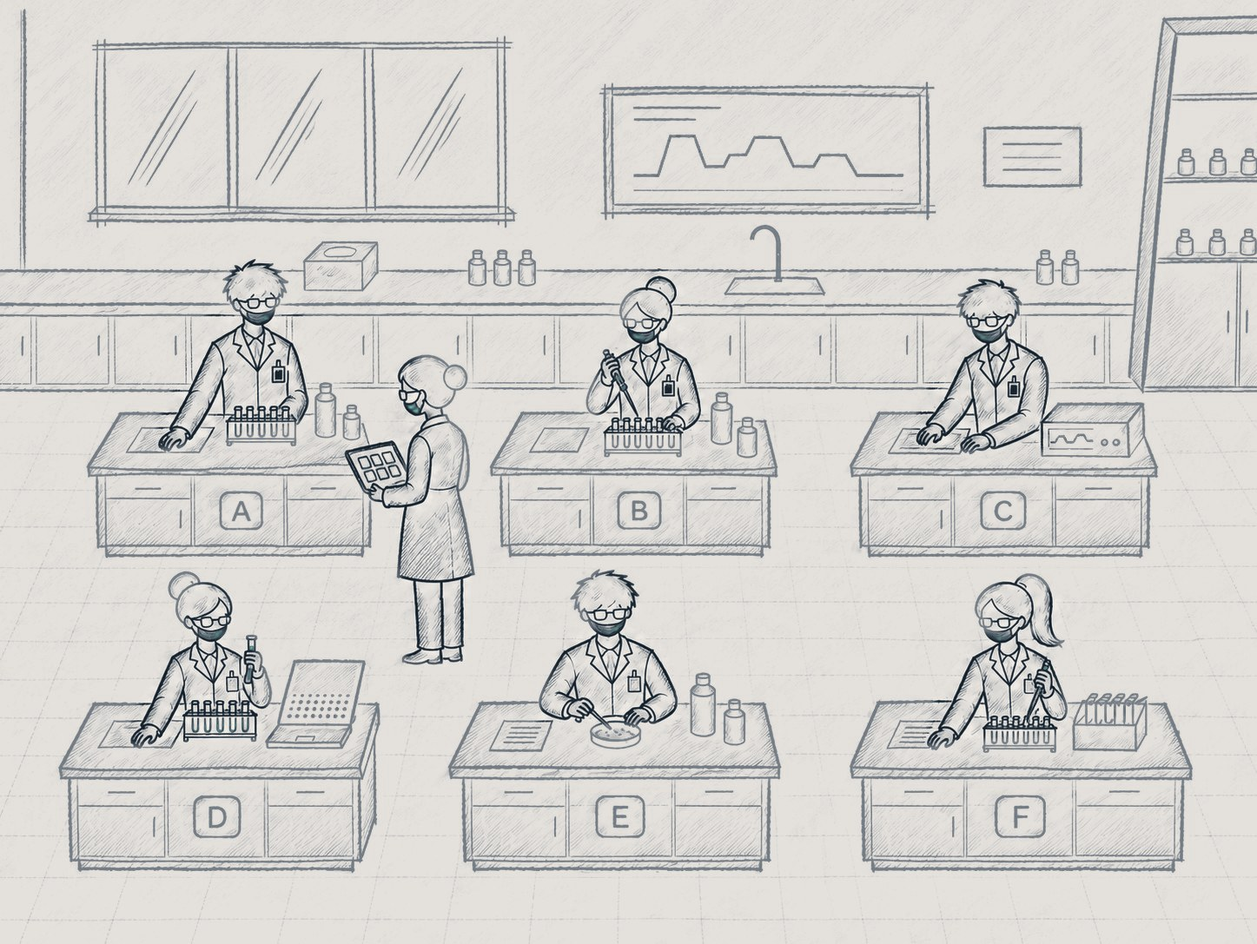
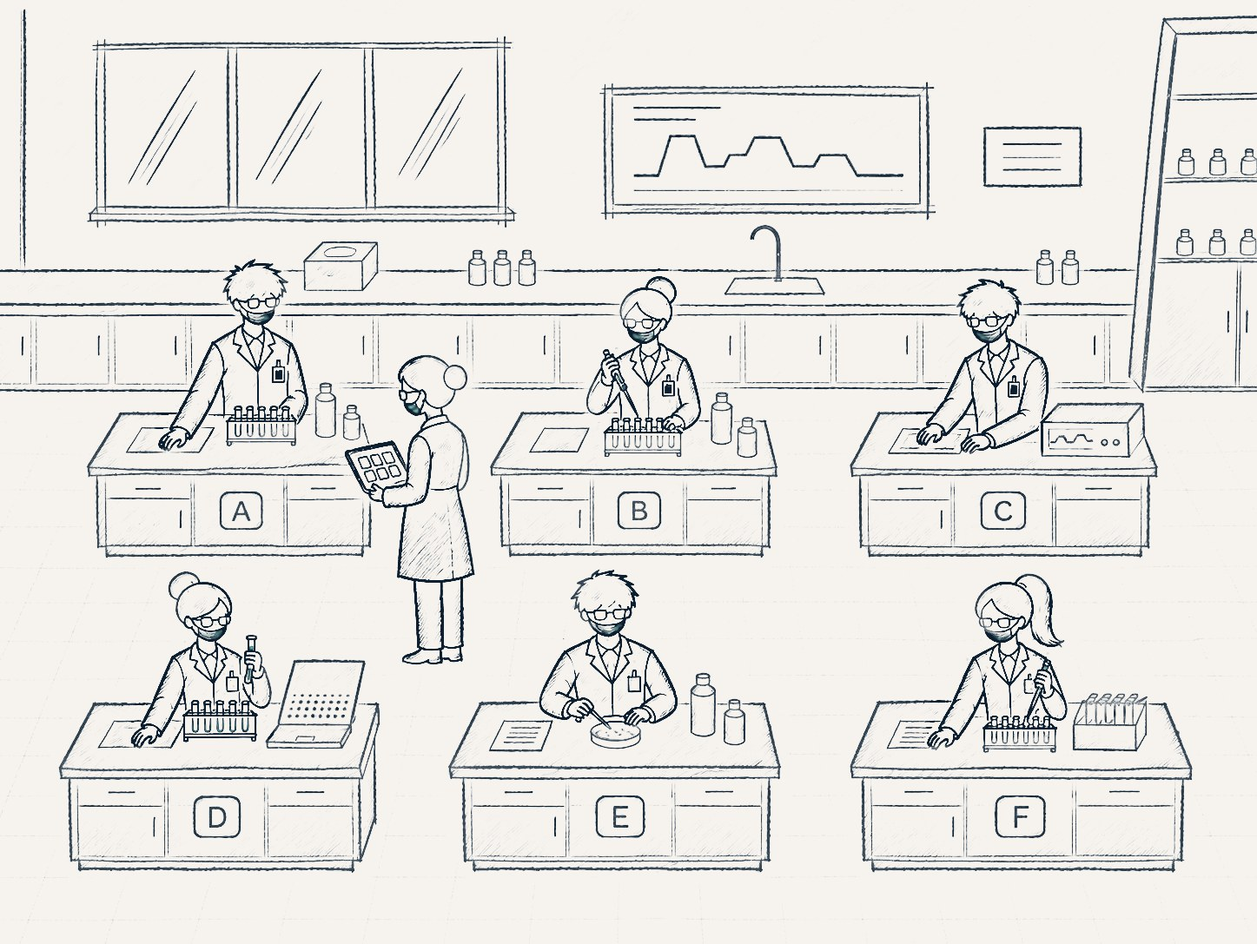
Lab illustrations: crisper people (navy ink), lighter room lines, no haze
Claude-Session: https://claude.ai/code/session_01QyLKD32KRehfmpAtUqrHvu

diff --git a/index.html b/index.html
@@ -14,7 +14,7 @@
 <link rel="stylesheet" href="theme.css?v=20261128-t8">
 </head>
 <body>
-<div class="view" data-view="zh-project" data-lang="zh" hidden><div class="site"><a class="skip-link" data-anchor="zh-project--main" href="#zh-project">跳转到内容</a><div class="lt"><header class="site-header"><div class="site-header-inner"><a class="site-logo" href="#zh-project"><svg aria-hidden="true" class="jw-mark" focusable="false" viewbox="-2 -2 92 104"><path d="M4 35V26A22 22 0 0 1 26 4H62A22 22 0 0 1 84 26V74A22 22 0 0 1 62 96H26A22 22 0 0 1 4 74V63" fill="none" stroke="currentColor" stroke-linecap="round" stroke-width="7.5"></path><circle cx="3.4" cy="49" fill="currentColor" r="5"></circle></svg><span class="site-logo-text"><b>见微科技</b><span>LabMate AI</span></span></a><nav aria-label="网站导航" class="site-nav" id="zh-project--site-nav"><a aria-current="page" href="#zh-project">项目介绍</a><a href="#zh-team">团队</a><a href="hackathon/">News</a><a href="product/demo/">Demo</a></nav><div class="site-actions"><button aria-controls="zh-project--site-nav" aria-expanded="false" aria-label="打开菜单" class="site-menu"><span aria-hidden="true" class="site-burger"><i></i><i></i></span></button></div></div></header><main id="zh-project--main"><div class="site-page"><div class="x-hero-track" data-hero-track="true"><section class="x-hero"><div aria-hidden="true" class="x-hero-light"></div><div aria-hidden="true" class="x-pov x-labpov"><div class="x-labpov-in"><div class="lb ls-hero"><img class="lb-img" src="bp/lab2-base.jpg?v=20261128-light" width="1446" height="910" alt="实验室线稿插画：六张实验台，老师站在 A 台旁" decoding="async"/><img class="lb-img lb-frame" data-f="warn" src="bp/lab2-warn.jpg?v=20261128-light" width="1446" height="910" alt="" aria-hidden="true" decoding="async"/><img class="lb-img lb-frame" data-f="detail" src="bp/lab2-detail.zh.jpg?v=20261128-light" width="1446" height="910" alt="" aria-hidden="true" decoding="async"/><img class="lb-img lb-frame" data-f="teacher" src="bp/lab2-teacher.zh.jpg?v=20261128-light" width="1446" height="910" alt="" aria-hidden="true" decoding="async"/><img class="lb-img lb-frame" data-f="after" src="bp/lab2-after.zh.jpg?v=20261128-light" width="1446" height="910" alt="" aria-hidden="true" decoding="async"/><span class="lb-dim lb-dim-a" aria-hidden="true"></span><span class="lb-dim lb-dim-b" aria-hidden="true"></span><span class="lb-ring" aria-hidden="true" style="left:39.07330567081605%;top:20.0%;width:24.20470262793914%;height:38.24175824175824%"></span><svg class="lb-glasses" viewBox="0 0 80 26" aria-hidden="true" style="left:49.93084370677732%;top:24.285714285714285%;width:3.7344398340248963%"><path d="M2 6h76"></path><rect x="6" y="5" width="30" height="17" rx="5"></rect><rect x="44" y="5" width="30" height="17" rx="5"></rect><circle cx="70" cy="7.5" r="1.6" class="lb-cam"></circle></svg><span class="lb-chip" data-b="A" aria-hidden="true" style="left:21.23098201936376%;top:50.76923076923077%;--v:0.6666666666666666"><i class="lb-dot"></i>第 6/9 步<i class="lb-bar"></i></span><span class="lb-chip" data-b="B" aria-hidden="true" style="left:53.665283540802214%;top:50.76923076923077%;--v:0.1111111111111111"><i class="lb-dot"></i>第 1/9 步<i class="lb-bar"></i></span><span class="lb-chip" data-b="C" aria-hidden="true" style="left:84.37067773167358%;top:50.76923076923077%;--v:0.1111111111111111"><i class="lb-dot"></i>第 1/9 步<i class="lb-bar"></i></span><span class="lb-chip" data-b="D" aria-hidden="true" style="left:19.502074688796682%;top:90.54945054945055%;--v:0.5555555555555556"><i class="lb-dot"></i>第 5/9 步<i class="lb-bar"></i></span><span class="lb-chip" data-b="E" aria-hidden="true" style="left:51.65975103734441%;top:90.54945054945055%;--v:0.3333333333333333"><i class="lb-dot"></i>第 3/9 步<i class="lb-bar"></i></span><span class="lb-chip" data-b="F" aria-hidden="true" style="left:83.81742738589212%;top:90.54945054945055%;--v:0.7777777777777778"><i class="lb-dot"></i>第 7/9 步<i class="lb-bar"></i></span><span class="lb-tag lb-warn" data-t="warn" style="left:51.31396957123098%;top:14.505494505494507%">B 台出错了，老师没看到</span><span class="lb-tag lb-warn" data-t="detail" style="left:65.6984785615491%;top:61.75824175824176%">移液量设错，试剂也拿错了</span><span class="lb-tag lb-ok" data-t="dev" style="left:51.31396957123098%;top:14.505494505494507%">回到课前，先用平板准备</span><span class="lb-tag lb-ok" data-t="after" style="left:69.84785615491009%;top:5.714285714285714%">B 台已纠正；C 台的新提醒，老师也第一时间看到</span></div><p class="x-labpov-cap">一节 PCR 实验课，一位老师，六张台。</p></div></div><div class="x-hero-stage"><div class="g3d g3d-hero" data-glasses3d="hero"><svg aria-label="LabMate AR 眼镜示意图：镜片中叠加实验步骤提示" class="glasses-art has-view" role="img" viewbox="0 0 1200 430"><defs><lineargradient id="zh-project--hero-frame" x1="0" x2="0" y1="0" y2="1"><stop offset="0" stop-color="#5a6573"></stop><stop offset="0.2" stop-color="#2a3038"></stop><stop offset="1" stop-color="#0e1116"></stop></lineargradient><lineargradient id="zh-project--hero-glass" x1="0" x2="1" y1="0" y2="1"><stop offset="0" stop-color="#ffffff" stop-opacity="0.22"></stop><stop offset="0.35" stop-color="#ffffff" stop-opacity="0.04"></stop><stop offset="1" stop-color="#93b4d8" stop-opacity="0.08"></stop></lineargradient><lineargradient id="zh-project--hero-tint" x1="0" x2="0" y1="0" y2="1"><stop offset="0" stop-color="#0e2a33" stop-opacity="0.28"></stop><stop offset="1" stop-color="#0e2a33" stop-opacity="0.08"></stop></lineargradient><lineargradient id="zh-project--hero-rim" x1="0" x2="0" y1="0" y2="1"><stop offset="0" stop-color="#c9d6e3" stop-opacity="0.75"></stop><stop offset="0.3" stop-color="#93b4d8" stop-opacity="0.25"></stop><stop offset="1" stop-color="#ffffff" stop-opacity="0.05"></stop></lineargradient><filter height="140%" id="zh-project--hero-blur" width="140%" x="-20%" y="-20%"><fegaussianblur stddeviation="7"></fegaussianblur></filter><radialgradient cx="0.5" cy="0.5" id="zh-project--hero-fade" r="0.55"><stop offset="0.55" stop-color="#fff"></stop><stop offset="1" stop-color="#000"></stop></radialgradient><mask height="830" id="zh-project--hero-world" maskunits="userSpaceOnUse" width="1600" x="-200" y="-200"><rect fill="url(#zh-project--hero-fade)" height="830" width="1600" x="-200" y="-200"></rect></mask><lineargradient id="zh-project--hero-temple" x1="0" x2="0" y1="1" y2="0"><stop offset="0" stop-color="#2a323c"></stop><stop offset="1" stop-color="#2a323c" stop-opacity="0"></stop></lineargradient><clippath id="zh-project--hero-lenses"><rect height="274" rx="96" width="476" x="82" y="74"></rect><rect height="274" rx="96" width="476" x="642" y="74"></rect></clippath></defs><g class="ga-world" mask="url(#zh-project--hero-world)"><image height="1800" href="bp/glasses-guidance.jpg?v=20261126010235" opacity="0.42" width="1800" x="-42" y="-827"/></g><path d="M48 114 L80 108 L300 -40 L286 -42 Z" fill="url(#zh-project--hero-temple)"></path><path d="M1152 114 L1120 108 L900 -40 L914 -42 Z" fill="url(#zh-project--hero-temple)"></path><rect fill="url(#zh-project--hero-frame)" height="30" rx="9" width="44" x="40" y="104"></rect><rect fill="url(#zh-project--hero-frame)" height="30" rx="9" width="44" x="1116" y="104"></rect><circle cx="1142" cy="119" fill="#05070a" r="9" stroke="#2c3644" stroke-width="3"></circle><circle cx="1142" cy="119" fill="#123a4c" r="4"></circle><circle class="ga-led" cx="1157" cy="110" fill="#3ddc97" r="2.2"></circle><g fill="url(#zh-project--hero-frame)"><rect height="298" rx="108" width="502" x="70" y="62"></rect><rect height="298" rx="108" width="502" x="628" y="62"></rect><path d="M566 118 C584 92 616 92 634 118 L634 138 C616 116 584 116 566 138 Z"></path></g><g fill="none" stroke-linecap="round"><rect height="298" rx="108" stroke="url(#zh-project--hero-rim)" stroke-width="2" width="502" x="70" y="62"></rect><rect height="298" rx="108" stroke="url(#zh-project--hero-rim)" stroke-width="2" width="502" x="628" y="62"></rect></g><g fill="#2a3340"><ellipse cx="548" cy="214" rx="9" ry="20"></ellipse><ellipse cx="652" cy="214" rx="9" ry="20"></ellipse></g><g clip-path="url(#zh-project--hero-lenses)"><rect fill="#0a1119" height="430" width="1200" x="0" y="0"></rect><image class="ga-view" height="1800" href="bp/glasses-guidance.jpg?v=20261126010235" preserveaspectratio="xMinYMin slice" width="1800" x="-42" y="-827"/><rect fill="url(#zh-project--hero-tint)" height="430" width="1200" x="0" y="0"></rect><rect class="ga-scan" height="3" width="1200" x="0" y="74"></rect><rect fill="url(#zh-project--hero-glass)" height="430" width="1200" x="0" y="0"></rect><path d="M150 74 L250 74 L120 348 L82 348 L82 250 Z" fill="#ffffff" opacity="0.05"></path><path d="M710 74 L790 74 L660 348 L642 348 L642 300 Z" fill="#ffffff" opacity="0.05"></path></g><g fill="none" stroke="#93b4d8" stroke-opacity="0.35" stroke-width="1.5"><rect height="274" rx="96" width="476" x="82" y="74"></rect><rect height="274" rx="96" width="476" x="642" y="74"></rect></g><g class="ga-hud"><g class="ga-chip c1"><rect height="36" rx="9" width="250" x="122" y="100"></rect><text x="138" y="124">1/9 · 加水 20 µL</text></g><g class="ga-list c2"><path d="M138 176 V 302"></path><g class="on"><circle cx="138" cy="168" r="6"></circle><text x="156" y="174">调量</text></g><g class=""><circle cx="138" cy="202" r="6"></circle><text x="156" y="208">装枪头</text></g><g class=""><circle cx="138" cy="236" r="6"></circle><text x="156" y="242">吸液</text></g><g class=""><circle cx="138" cy="270" r="6"></circle><text x="156" y="276">排液</text></g><g class=""><circle cx="138" cy="304" r="6"></circle><text x="156" y="310">退枪头</text></g></g><g class="ga-box c3"><path d="M852 122 h-16 v22 M922 122 h16 v22 M852 268 h-16 v-22 M922 268 h16 v-22"></path></g><g class="ga-chip warn c4"><rect height="56" rx="9" width="140" x="676" y="124"></rect><text class="small" x="690" y="148">读数</text><text x="682" y="172">201.6 µL</text></g><g class="ga-chip ok c5"><rect height="36" rx="9" width="404" x="676" y="292"></rect><text x="692" y="316">朝减小方向调整旋钮 → 20 µL</text></g></g></svg></div><span aria-hidden="true" class="x-hero-floor"></span></div><div class="x-hero-copy"><p class="x-lockup">LabMate AI<!-- --> <span>多终端 AI 实验教学平台</span></p><h1>用 AR 眼镜，<br/>实时指导学生做实验。</h1><p class="x-hero-lead">学生先在平板上预习、练会仪器；做实验时，眼镜认出每一步，操作出错当场提示；老师在教师端看到每张实验台。</p><div class="x-hero-actions hero-actions3"><a class="x-btn" data-anchor="zh-project--journey" href="#zh-project">查看真实教学流程</a><a class="x-link" href="product/demo/">产品界面演示</a><a class="x-link" href="hackathon/">最新动态</a></div><p class="x-foot">眼镜为示意渲染；实验室为示意图。</p></div></section></div><section aria-label="一次完整实验" class="xj" data-journey="true" id="zh-project--journey"><div class="xj-stage" data-k="0" data-scene="0"><div aria-hidden="true" class="xj-bar"><span style="--i:0"><i></i><small>问题</small><b>01</b>实验室</span><span style="--i:1"><i></i><small>课前</small><b>02</b>灵感</span><span style="--i:2"><i></i><small>课前</small><b>03</b>仪器</span><span style="--i:3"><i></i><small>课上</small><b>04</b>AR 实验</span><span style="--i:4"><i></i><small>课上 · 课后</small><b>05</b>教师端</span></div><div class="xj-copy"><article class="xj-cap" data-cap="0"><p class="x-chap"><b>01</b><em class="xj-when">问题</em><span>实验室 · The lab</span></p><h2>一间实验室，一位老师，六张台。</h2><p class="xj-p">这是一节 PCR 实验课。每张台做到不同的步骤，老师只能站在一张台旁边；某一步做错，往往要等结果出来才发现。先看 B 台出了什么错，再回到课前，看 LabMate 怎么一路帮他。</p><ol class="xj-steps"><li data-num="1" data-step="0">六张台，进度各不相同</li><li data-num="2" data-step="1">老师在 A 台，顾不上其他台</li><li data-num="3" data-step="2">B 台出错了，没人发现</li><li data-num="4" data-step="3">错在哪：移液量设错，试剂也拿错了</li><li data-num="5" data-step="4">回到课前：B 台的同学先在平板上准备</li></ol></article><article class="xj-cap" data-cap="1"><p class="x-chap"><b>02</b><em class="xj-when">课前</em><span>灵感 · Inspiration</span></p><h2>从一个问题开始。</h2><p class="xj-p">回到课前。B 台的同学先在平板上选一个感兴趣的小场景，在 Dr. Pipette 引导下自己搭出 PCR 方案，弄清每一步为什么这样做。</p><ol class="xj-steps"><li data-num="1" data-step="0">选一个小场景</li><li data-num="2" data-step="1">说清你的问题</li><li data-num="3" data-step="2">问 Dr. Pipette</li><li data-num="4" data-step="3">找到要检测的片段</li><li data-num="5" data-step="4">设计引物与分组</li><li data-num="6" data-step="5">整理 PCR protocol 草案</li></ol></article><article class="xj-cap" data-cap="2"><p class="x-chap"><b>03</b><em class="xj-when">课前</em><span>仪器使用 · Instrument use</span></p><h2>先会用仪器，再做完整实验。</h2><p class="xj-p">还是在课前：一步步练会微量移液器，量程、握法、两档力度都练熟，再进实验室。</p><ol class="xj-steps"><li data-num="1" data-step="0">选择移液枪</li><li data-num="2" data-step="1">调整量程</li><li data-num="3" data-step="2">正确握持</li><li data-num="4" data-step="3">感受两档力度</li><li data-num="5" data-step="4">安装枪头</li><li data-num="6" data-step="5">吸液准备与吸取</li></ol></article><article class="xj-cap" data-cap="3"><p class="x-chap"><b>04</b><em class="xj-when">课上</em><span>AR 实验 · AR lab work</span></p><h2>戴上眼镜，走到实验台。</h2><p class="xj-p">课上，B 台的同学戴上眼镜。眼镜看见当前操作，对上流程的这一步，量程设错就在视野里当场提示。</p><ol class="xj-steps"><li data-num="1" data-step="0">看见 · 认出移液器和刻度窗</li><li data-num="2" data-step="1">对齐流程 · 第 1/9 步 · 加水 20 µL</li><li data-num="3" data-step="2">判断 · 读数 201.6 µL，超出量程</li><li data-num="4" data-step="3">提示 · 请调小旋钮</li></ol></article><article class="xj-cap" data-cap="4"><p class="x-chap"><b>05</b><em class="xj-when">课上 · 课后</em><span>教师端 · Teacher</span></p><h2>教师看见每一张台。</h2><p class="xj-p">B 台纠正后，教师端同步更新；C 台出现新情况，马上标红。老师不用守在每张台旁，也能先看到需要帮助的那一张，课后再回放关键事件。</p><ol class="xj-steps"><li data-num="1" data-step="0">出错的台，在教师端标红</li><li data-num="2" data-step="1">点开这一组，按时间看关键事件</li><li data-num="3" data-step="2">课后回放，复盘过程</li><li data-num="4" data-step="3">回到实验室：每张台都戴上眼镜，老师在平板上看到 C 台需要帮助</li><li data-num="5" data-step="4">B 台已纠正，C 台的新情况也第一时间看到</li></ol></article></div><div aria-hidden="true" class="xj-view"><div class="xj-lab"><div class="lb"><img class="lb-img" src="bp/lab2-base.jpg?v=20261128-light" width="1446" height="910" alt="实验室线稿插画：六张实验台，老师站在 A 台旁" decoding="async"/><img class="lb-img lb-frame" data-f="warn" src="bp/lab2-warn.jpg?v=20261128-light" width="1446" height="910" alt="" aria-hidden="true" decoding="async"/><img class="lb-img lb-frame" data-f="detail" src="bp/lab2-detail.zh.jpg?v=20261128-light" width="1446" height="910" alt="" aria-hidden="true" decoding="async"/><img class="lb-img lb-frame" data-f="teacher" src="bp/lab2-teacher.zh.jpg?v=20261128-light" width="1446" height="910" alt="" aria-hidden="true" decoding="async"/><img class="lb-img lb-frame" data-f="after" src="bp/lab2-after.zh.jpg?v=20261128-light" width="1446" height="910" alt="" aria-hidden="true" decoding="async"/><span class="lb-dim lb-dim-a" aria-hidden="true"></span><span class="lb-dim lb-dim-b" aria-hidden="true"></span><span class="lb-ring" aria-hidden="true" style="left:39.07330567081605%;top:20.0%;width:24.20470262793914%;height:38.24175824175824%"></span><svg class="lb-glasses" viewBox="0 0 80 26" aria-hidden="true" style="left:49.93084370677732%;top:24.285714285714285%;width:3.7344398340248963%"><path d="M2 6h76"></path><rect x="6" y="5" width="30" height="17" rx="5"></rect><rect x="44" y="5" width="30" height="17" rx="5"></rect><circle cx="70" cy="7.5" r="1.6" class="lb-cam"></circle></svg><span class="lb-chip" data-b="A" aria-hidden="true" style="left:21.23098201936376%;top:50.76923076923077%;--v:0.6666666666666666"><i class="lb-dot"></i>第 6/9 步<i class="lb-bar"></i></span><span class="lb-chip" data-b="B" aria-hidden="true" style="left:53.665283540802214%;top:50.76923076923077%;--v:0.1111111111111111"><i class="lb-dot"></i>第 1/9 步<i class="lb-bar"></i></span><span class="lb-chip" data-b="C" aria-hidden="true" style="left:84.37067773167358%;top:50.76923076923077%;--v:0.1111111111111111"><i class="lb-dot"></i>第 1/9 步<i class="lb-bar"></i></span><span class="lb-chip" data-b="D" aria-hidden="true" style="left:19.502074688796682%;top:90.54945054945055%;--v:0.5555555555555556"><i class="lb-dot"></i>第 5/9 步<i class="lb-bar"></i></span><span class="lb-chip" data-b="E" aria-hidden="true" style="left:51.65975103734441%;top:90.54945054945055%;--v:0.3333333333333333"><i class="lb-dot"></i>第 3/9 步<i class="lb-bar"></i></span><span class="lb-chip" data-b="F" aria-hidden="true" style="left:83.81742738589212%;top:90.54945054945055%;--v:0.7777777777777778"><i class="lb-dot"></i>第 7/9 步<i class="lb-bar"></i></span><span class="lb-tag lb-warn" data-t="warn" style="left:51.31396957123098%;top:14.505494505494507%">B 台出错了，老师没看到</span><span class="lb-tag lb-warn" data-t="detail" style="left:65.6984785615491%;top:61.75824175824176%">移液量设错，试剂也拿错了</span><span class="lb-tag lb-ok" data-t="dev" style="left:51.31396957123098%;top:14.505494505494507%">回到课前，先用平板准备</span><span class="lb-tag lb-ok" data-t="after" style="left:69.84785615491009%;top:5.714285714285714%">B 台已纠正；C 台的新提醒，老师也第一时间看到</span></div></div><div class="xj-tablet"><div class="xj-screen"><img alt="" class="xj-shot" data-shot="0" decoding="async" height="1161" loading="eager" src="bp/app-scene.jpg?v=20261126010235" style="color:transparent" width="1600"/><img alt="" class="xj-shot" data-shot="1" decoding="async" height="1161" loading="lazy" src="bp/app-question.jpg?v=20261126010235" style="color:transparent" width="1600"/><img alt="" class="xj-shot" data-shot="2" decoding="async" height="1161" loading="lazy" src="bp/app-pipette.jpg?v=20261126010235" style="color:transparent" width="1600"/><img alt="" class="xj-shot" data-shot="3" decoding="async" height="1161" loading="lazy" src="bp/app-segment.jpg?v=20261126010235" style="color:transparent" width="1600"/><img alt="" class="xj-shot" data-shot="4" decoding="async" height="1161" loading="lazy" src="bp/app-design.jpg?v=20261126010235" style="color:transparent" width="1600"/><img alt="" class="xj-shot" data-shot="5" decoding="async" height="1161" loading="lazy" src="bp/app-protocol.jpg?v=20261126010235" style="color:transparent" width="1600"/><img alt="" class="xj-inst" decoding="async" height="1741" loading="eager" src="bp/instrument-hd.jpg?v=20261127-fix" style="color:transparent" width="2400"/><span class="xj-hl"></span></div></div><div class="xj-zoom"><img alt="" class="xj-z" data-z="1-0" decoding="async" height="896" loading="lazy" src="bp/z-scene.jpg?v=20261126010235" style="color:transparent" width="1600"/><img alt="" class="xj-z" data-z="1-1" decoding="async" height="723" loading="lazy" src="bp/z-question.jpg?v=20261126010235" style="color:transparent" width="1600"/><img alt="" class="xj-z" data-z="1-2" decoding="async" height="647" loading="lazy" src="bp/z-pipette.jpg?v=20261126010235" style="color:transparent" width="1600"/><img alt="" class="xj-z" data-z="1-3" decoding="async" height="516" loading="lazy" src="bp/z-segment.jpg?v=20261126010235" style="color:transparent" width="1600"/><img alt="" class="xj-z" data-z="1-4" decoding="async" height="430" loading="lazy" src="bp/z-design.jpg?v=20261126010235" style="color:transparent" width="1600"/><img alt="" class="xj-z" data-z="1-5" decoding="async" height="416" loading="lazy" src="bp/z-protocol.jpg?v=20261126010235" style="color:transparent" width="1600"/><img alt="" class="xj-z" data-z="2-0" decoding="async" height="283" loading="lazy" src="bp/z-inst0.jpg?v=20261126010235" style="color:transparent" width="1400"/><img alt="" class="xj-z" data-z="2-1" decoding="async" height="283" loading="lazy" src="bp/z-inst1.jpg?v=20261126010235" style="color:transparent" width="1400"/><img alt="" class="xj-z" data-z="2-2" decoding="async" height="283" loading="lazy" src="bp/z-inst2.jpg?v=20261126010235" style="color:transparent" width="1400"/><img alt="" class="xj-z" data-z="2-3" decoding="async" height="283" loading="lazy" src="bp/z-inst3.jpg?v=20261126010235" style="color:transparent" width="1400"/><img alt="" class="xj-z" data-z="2-4" decoding="async" height="283" loading="lazy" src="bp/z-inst4.jpg?v=20261126010235" style="color:transparent" width="1400"/><img alt="" class="xj-z" data-z="2-5" decoding="async" height="566" loading="lazy" src="bp/z-inst5.jpg?v=20261126010235" style="color:transparent" width="1400"/></div><div class="xj-glasses"><div class="g3d g3d-mini" data-glasses3d="mini"></div></div><div class="xj-bench"><img alt="" decoding="async" height="675" loading="eager" src="bp/bench-pov.jpg?v=20261126010235" style="color:transparent" width="1200"/><span class="xj-ret"></span><div class="xj-hud xj-hud-task"><b>第 1/9 步</b>加水 · 20 µL</div><div class="xj-hud xj-hud-read"><span>当前读数</span><strong>201.6 µL</strong><em>超出标称量程</em></div><div class="xj-hud xj-hud-say"><i></i>请朝减小方向调整旋钮，目标 20 微升。</div></div><div class="xj-monitor"><div class="xj-mscreen"><img alt="" decoding="async" height="944" loading="eager" src="bp/teacher-workspace.png?v=20261128-c" style="color:transparent" width="1458"/><span class="xj-fcard"></span><span class="xj-fpulse"></span><span class="xj-tgt" data-tgt="0" style="left:28.7%;top:74.5%">01</span><span class="xj-tgt" data-tgt="1" style="left:57.7%;top:69.5%">02</span><span class="xj-tgt" data-tgt="2" style="left:63.3%;top:20.3%">03</span></div></div></div></div><p class="x-foot xj-foot">实验室为示意图；画面来自学生端、仪器训练与教师端原型及演示录屏；眼镜为示意渲染，界面为中文版。</p></section><section class="x-band x-ev ev2" id="zh-project--evidence"><div class="x-wrap"><header class="x-head"><p class="x-kicker">识别效果</p><h2>看懂实验过程，而不只是认出器材。</h2><p>提示要有用，眼镜得知道学生正在做哪一步、做得对不对。</p></header>
+<div class="view" data-view="zh-project" data-lang="zh" hidden><div class="site"><a class="skip-link" data-anchor="zh-project--main" href="#zh-project">跳转到内容</a><div class="lt"><header class="site-header"><div class="site-header-inner"><a class="site-logo" href="#zh-project"><svg aria-hidden="true" class="jw-mark" focusable="false" viewbox="-2 -2 92 104"><path d="M4 35V26A22 22 0 0 1 26 4H62A22 22 0 0 1 84 26V74A22 22 0 0 1 62 96H26A22 22 0 0 1 4 74V63" fill="none" stroke="currentColor" stroke-linecap="round" stroke-width="7.5"></path><circle cx="3.4" cy="49" fill="currentColor" r="5"></circle></svg><span class="site-logo-text"><b>见微科技</b><span>LabMate AI</span></span></a><nav aria-label="网站导航" class="site-nav" id="zh-project--site-nav"><a aria-current="page" href="#zh-project">项目介绍</a><a href="#zh-team">团队</a><a href="hackathon/">News</a><a href="product/demo/">Demo</a></nav><div class="site-actions"><button aria-controls="zh-project--site-nav" aria-expanded="false" aria-label="打开菜单" class="site-menu"><span aria-hidden="true" class="site-burger"><i></i><i></i></span></button></div></div></header><main id="zh-project--main"><div class="site-page"><div class="x-hero-track" data-hero-track="true"><section class="x-hero"><div aria-hidden="true" class="x-hero-light"></div><div aria-hidden="true" class="x-pov x-labpov"><div class="x-labpov-in"><div class="lb ls-hero"><img class="lb-img" src="bp/lab2-base.jpg?v=20261128-light2" width="1446" height="910" alt="实验室线稿插画：六张实验台，老师站在 A 台旁" decoding="async"/><img class="lb-img lb-frame" data-f="warn" src="bp/lab2-warn.jpg?v=20261128-light2" width="1446" height="910" alt="" aria-hidden="true" decoding="async"/><img class="lb-img lb-frame" data-f="detail" src="bp/lab2-detail.zh.jpg?v=20261128-light2" width="1446" height="910" alt="" aria-hidden="true" decoding="async"/><img class="lb-img lb-frame" data-f="teacher" src="bp/lab2-teacher.zh.jpg?v=20261128-light2" width="1446" height="910" alt="" aria-hidden="true" decoding="async"/><img class="lb-img lb-frame" data-f="after" src="bp/lab2-after.zh.jpg?v=20261128-light2" width="1446" height="910" alt="" aria-hidden="true" decoding="async"/><span class="lb-dim lb-dim-a" aria-hidden="true"></span><span class="lb-dim lb-dim-b" aria-hidden="true"></span><span class="lb-ring" aria-hidden="true" style="left:39.07330567081605%;top:20.0%;width:24.20470262793914%;height:38.24175824175824%"></span><svg class="lb-glasses" viewBox="0 0 80 26" aria-hidden="true" style="left:49.93084370677732%;top:24.285714285714285%;width:3.7344398340248963%"><path d="M2 6h76"></path><rect x="6" y="5" width="30" height="17" rx="5"></rect><rect x="44" y="5" width="30" height="17" rx="5"></rect><circle cx="70" cy="7.5" r="1.6" class="lb-cam"></circle></svg><span class="lb-chip" data-b="A" aria-hidden="true" style="left:21.23098201936376%;top:50.76923076923077%;--v:0.6666666666666666"><i class="lb-dot"></i>第 6/9 步<i class="lb-bar"></i></span><span class="lb-chip" data-b="B" aria-hidden="true" style="left:53.665283540802214%;top:50.76923076923077%;--v:0.1111111111111111"><i class="lb-dot"></i>第 1/9 步<i class="lb-bar"></i></span><span class="lb-chip" data-b="C" aria-hidden="true" style="left:84.37067773167358%;top:50.76923076923077%;--v:0.1111111111111111"><i class="lb-dot"></i>第 1/9 步<i class="lb-bar"></i></span><span class="lb-chip" data-b="D" aria-hidden="true" style="left:19.502074688796682%;top:90.54945054945055%;--v:0.5555555555555556"><i class="lb-dot"></i>第 5/9 步<i class="lb-bar"></i></span><span class="lb-chip" data-b="E" aria-hidden="true" style="left:51.65975103734441%;top:90.54945054945055%;--v:0.3333333333333333"><i class="lb-dot"></i>第 3/9 步<i class="lb-bar"></i></span><span class="lb-chip" data-b="F" aria-hidden="true" style="left:83.81742738589212%;top:90.54945054945055%;--v:0.7777777777777778"><i class="lb-dot"></i>第 7/9 步<i class="lb-bar"></i></span><span class="lb-tag lb-warn" data-t="warn" style="left:51.31396957123098%;top:14.505494505494507%">B 台出错了，老师没看到</span><span class="lb-tag lb-warn" data-t="detail" style="left:65.6984785615491%;top:61.75824175824176%">移液量设错，试剂也拿错了</span><span class="lb-tag lb-ok" data-t="dev" style="left:51.31396957123098%;top:14.505494505494507%">回到课前，先用平板准备</span><span class="lb-tag lb-ok" data-t="after" style="left:69.84785615491009%;top:5.714285714285714%">B 台已纠正；C 台的新提醒，老师也第一时间看到</span></div><p class="x-labpov-cap">一节 PCR 实验课，一位老师，六张台。</p></div></div><div class="x-hero-stage"><div class="g3d g3d-hero" data-glasses3d="hero"><svg aria-label="LabMate AR 眼镜示意图：镜片中叠加实验步骤提示" class="glasses-art has-view" role="img" viewbox="0 0 1200 430"><defs><lineargradient id="zh-project--hero-frame" x1="0" x2="0" y1="0" y2="1"><stop offset="0" stop-color="#5a6573"></stop><stop offset="0.2" stop-color="#2a3038"></stop><stop offset="1" stop-color="#0e1116"></stop></lineargradient><lineargradient id="zh-project--hero-glass" x1="0" x2="1" y1="0" y2="1"><stop offset="0" stop-color="#ffffff" stop-opacity="0.22"></stop><stop offset="0.35" stop-color="#ffffff" stop-opacity="0.04"></stop><stop offset="1" stop-color="#93b4d8" stop-opacity="0.08"></stop></lineargradient><lineargradient id="zh-project--hero-tint" x1="0" x2="0" y1="0" y2="1"><stop offset="0" stop-color="#0e2a33" stop-opacity="0.28"></stop><stop offset="1" stop-color="#0e2a33" stop-opacity="0.08"></stop></lineargradient><lineargradient id="zh-project--hero-rim" x1="0" x2="0" y1="0" y2="1"><stop offset="0" stop-color="#c9d6e3" stop-opacity="0.75"></stop><stop offset="0.3" stop-color="#93b4d8" stop-opacity="0.25"></stop><stop offset="1" stop-color="#ffffff" stop-opacity="0.05"></stop></lineargradient><filter height="140%" id="zh-project--hero-blur" width="140%" x="-20%" y="-20%"><fegaussianblur stddeviation="7"></fegaussianblur></filter><radialgradient cx="0.5" cy="0.5" id="zh-project--hero-fade" r="0.55"><stop offset="0.55" stop-color="#fff"></stop><stop offset="1" stop-color="#000"></stop></radialgradient><mask height="830" id="zh-project--hero-world" maskunits="userSpaceOnUse" width="1600" x="-200" y="-200"><rect fill="url(#zh-project--hero-fade)" height="830" width="1600" x="-200" y="-200"></rect></mask><lineargradient id="zh-project--hero-temple" x1="0" x2="0" y1="1" y2="0"><stop offset="0" stop-color="#2a323c"></stop><stop offset="1" stop-color="#2a323c" stop-opacity="0"></stop></lineargradient><clippath id="zh-project--hero-lenses"><rect height="274" rx="96" width="476" x="82" y="74"></rect><rect height="274" rx="96" width="476" x="642" y="74"></rect></clippath></defs><g class="ga-world" mask="url(#zh-project--hero-world)"><image height="1800" href="bp/glasses-guidance.jpg?v=20261126010235" opacity="0.42" width="1800" x="-42" y="-827"/></g><path d="M48 114 L80 108 L300 -40 L286 -42 Z" fill="url(#zh-project--hero-temple)"></path><path d="M1152 114 L1120 108 L900 -40 L914 -42 Z" fill="url(#zh-project--hero-temple)"></path><rect fill="url(#zh-project--hero-frame)" height="30" rx="9" width="44" x="40" y="104"></rect><rect fill="url(#zh-project--hero-frame)" height="30" rx="9" width="44" x="1116" y="104"></rect><circle cx="1142" cy="119" fill="#05070a" r="9" stroke="#2c3644" stroke-width="3"></circle><circle cx="1142" cy="119" fill="#123a4c" r="4"></circle><circle class="ga-led" cx="1157" cy="110" fill="#3ddc97" r="2.2"></circle><g fill="url(#zh-project--hero-frame)"><rect height="298" rx="108" width="502" x="70" y="62"></rect><rect height="298" rx="108" width="502" x="628" y="62"></rect><path d="M566 118 C584 92 616 92 634 118 L634 138 C616 116 584 116 566 138 Z"></path></g><g fill="none" stroke-linecap="round"><rect height="298" rx="108" stroke="url(#zh-project--hero-rim)" stroke-width="2" width="502" x="70" y="62"></rect><rect height="298" rx="108" stroke="url(#zh-project--hero-rim)" stroke-width="2" width="502" x="628" y="62"></rect></g><g fill="#2a3340"><ellipse cx="548" cy="214" rx="9" ry="20"></ellipse><ellipse cx="652" cy="214" rx="9" ry="20"></ellipse></g><g clip-path="url(#zh-project--hero-lenses)"><rect fill="#0a1119" height="430" width="1200" x="0" y="0"></rect><image class="ga-view" height="1800" href="bp/glasses-guidance.jpg?v=20261126010235" preserveaspectratio="xMinYMin slice" width="1800" x="-42" y="-827"/><rect fill="url(#zh-project--hero-tint)" height="430" width="1200" x="0" y="0"></rect><rect class="ga-scan" height="3" width="1200" x="0" y="74"></rect><rect fill="url(#zh-project--hero-glass)" height="430" width="1200" x="0" y="0"></rect><path d="M150 74 L250 74 L120 348 L82 348 L82 250 Z" fill="#ffffff" opacity="0.05"></path><path d="M710 74 L790 74 L660 348 L642 348 L642 300 Z" fill="#ffffff" opacity="0.05"></path></g><g fill="none" stroke="#93b4d8" stroke-opacity="0.35" stroke-width="1.5"><rect height="274" rx="96" width="476" x="82" y="74"></rect><rect height="274" rx="96" width="476" x="642" y="74"></rect></g><g class="ga-hud"><g class="ga-chip c1"><rect height="36" rx="9" width="250" x="122" y="100"></rect><text x="138" y="124">1/9 · 加水 20 µL</text></g><g class="ga-list c2"><path d="M138 176 V 302"></path><g class="on"><circle cx="138" cy="168" r="6"></circle><text x="156" y="174">调量</text></g><g class=""><circle cx="138" cy="202" r="6"></circle><text x="156" y="208">装枪头</text></g><g class=""><circle cx="138" cy="236" r="6"></circle><text x="156" y="242">吸液</text></g><g class=""><circle cx="138" cy="270" r="6"></circle><text x="156" y="276">排液</text></g><g class=""><circle cx="138" cy="304" r="6"></circle><text x="156" y="310">退枪头</text></g></g><g class="ga-box c3"><path d="M852 122 h-16 v22 M922 122 h16 v22 M852 268 h-16 v-22 M922 268 h16 v-22"></path></g><g class="ga-chip warn c4"><rect height="56" rx="9" width="140" x="676" y="124"></rect><text class="small" x="690" y="148">读数</text><text x="682" y="172">201.6 µL</text></g><g class="ga-chip ok c5"><rect height="36" rx="9" width="404" x="676" y="292"></rect><text x="692" y="316">朝减小方向调整旋钮 → 20 µL</text></g></g></svg></div><span aria-hidden="true" class="x-hero-floor"></span></div><div class="x-hero-copy"><p class="x-lockup">LabMate AI<!-- --> <span>多终端 AI 实验教学平台</span></p><h1>用 AR 眼镜，<br/>实时指导学生做实验。</h1><p class="x-hero-lead">学生先在平板上预习、练会仪器；做实验时，眼镜认出每一步，操作出错当场提示；老师在教师端看到每张实验台。</p><div class="x-hero-actions hero-actions3"><a class="x-btn" data-anchor="zh-project--journey" href="#zh-project">查看真实教学流程</a><a class="x-link" href="product/demo/">产品界面演示</a><a class="x-link" href="hackathon/">最新动态</a></div><p class="x-foot">眼镜为示意渲染；实验室为示意图。</p></div></section></div><section aria-label="一次完整实验" class="xj" data-journey="true" id="zh-project--journey"><div class="xj-stage" data-k="0" data-scene="0"><div aria-hidden="true" class="xj-bar"><span style="--i:0"><i></i><small>问题</small><b>01</b>实验室</span><span style="--i:1"><i></i><small>课前</small><b>02</b>灵感</span><span style="--i:2"><i></i><small>课前</small><b>03</b>仪器</span><span style="--i:3"><i></i><small>课上</small><b>04</b>AR 实验</span><span style="--i:4"><i></i><small>课上 · 课后</small><b>05</b>教师端</span></div><div class="xj-copy"><article class="xj-cap" data-cap="0"><p class="x-chap"><b>01</b><em class="xj-when">问题</em><span>实验室 · The lab</span></p><h2>一间实验室，一位老师，六张台。</h2><p class="xj-p">这是一节 PCR 实验课。每张台做到不同的步骤，老师只能站在一张台旁边；某一步做错，往往要等结果出来才发现。先看 B 台出了什么错，再回到课前，看 LabMate 怎么一路帮他。</p><ol class="xj-steps"><li data-num="1" data-step="0">六张台，进度各不相同</li><li data-num="2" data-step="1">老师在 A 台，顾不上其他台</li><li data-num="3" data-step="2">B 台出错了，没人发现</li><li data-num="4" data-step="3">错在哪：移液量设错，试剂也拿错了</li><li data-num="5" data-step="4">回到课前：B 台的同学先在平板上准备</li></ol></article><article class="xj-cap" data-cap="1"><p class="x-chap"><b>02</b><em class="xj-when">课前</em><span>灵感 · Inspiration</span></p><h2>从一个问题开始。</h2><p class="xj-p">回到课前。B 台的同学先在平板上选一个感兴趣的小场景，在 Dr. Pipette 引导下自己搭出 PCR 方案，弄清每一步为什么这样做。</p><ol class="xj-steps"><li data-num="1" data-step="0">选一个小场景</li><li data-num="2" data-step="1">说清你的问题</li><li data-num="3" data-step="2">问 Dr. Pipette</li><li data-num="4" data-step="3">找到要检测的片段</li><li data-num="5" data-step="4">设计引物与分组</li><li data-num="6" data-step="5">整理 PCR protocol 草案</li></ol></article><article class="xj-cap" data-cap="2"><p class="x-chap"><b>03</b><em class="xj-when">课前</em><span>仪器使用 · Instrument use</span></p><h2>先会用仪器，再做完整实验。</h2><p class="xj-p">还是在课前：一步步练会微量移液器，量程、握法、两档力度都练熟，再进实验室。</p><ol class="xj-steps"><li data-num="1" data-step="0">选择移液枪</li><li data-num="2" data-step="1">调整量程</li><li data-num="3" data-step="2">正确握持</li><li data-num="4" data-step="3">感受两档力度</li><li data-num="5" data-step="4">安装枪头</li><li data-num="6" data-step="5">吸液准备与吸取</li></ol></article><article class="xj-cap" data-cap="3"><p class="x-chap"><b>04</b><em class="xj-when">课上</em><span>AR 实验 · AR lab work</span></p><h2>戴上眼镜，走到实验台。</h2><p class="xj-p">课上，B 台的同学戴上眼镜。眼镜看见当前操作，对上流程的这一步，量程设错就在视野里当场提示。</p><ol class="xj-steps"><li data-num="1" data-step="0">看见 · 认出移液器和刻度窗</li><li data-num="2" data-step="1">对齐流程 · 第 1/9 步 · 加水 20 µL</li><li data-num="3" data-step="2">判断 · 读数 201.6 µL，超出量程</li><li data-num="4" data-step="3">提示 · 请调小旋钮</li></ol></article><article class="xj-cap" data-cap="4"><p class="x-chap"><b>05</b><em class="xj-when">课上 · 课后</em><span>教师端 · Teacher</span></p><h2>教师看见每一张台。</h2><p class="xj-p">B 台纠正后，教师端同步更新；C 台出现新情况，马上标红。老师不用守在每张台旁，也能先看到需要帮助的那一张，课后再回放关键事件。</p><ol class="xj-steps"><li data-num="1" data-step="0">出错的台，在教师端标红</li><li data-num="2" data-step="1">点开这一组，按时间看关键事件</li><li data-num="3" data-step="2">课后回放，复盘过程</li><li data-num="4" data-step="3">回到实验室：每张台都戴上眼镜，老师在平板上看到 C 台需要帮助</li><li data-num="5" data-step="4">B 台已纠正，C 台的新情况也第一时间看到</li></ol></article></div><div aria-hidden="true" class="xj-view"><div class="xj-lab"><div class="lb"><img class="lb-img" src="bp/lab2-base.jpg?v=20261128-light2" width="1446" height="910" alt="实验室线稿插画：六张实验台，老师站在 A 台旁" decoding="async"/><img class="lb-img lb-frame" data-f="warn" src="bp/lab2-warn.jpg?v=20261128-light2" width="1446" height="910" alt="" aria-hidden="true" decoding="async"/><img class="lb-img lb-frame" data-f="detail" src="bp/lab2-detail.zh.jpg?v=20261128-light2" width="1446" height="910" alt="" aria-hidden="true" decoding="async"/><img class="lb-img lb-frame" data-f="teacher" src="bp/lab2-teacher.zh.jpg?v=20261128-light2" width="1446" height="910" alt="" aria-hidden="true" decoding="async"/><img class="lb-img lb-frame" data-f="after" src="bp/lab2-after.zh.jpg?v=20261128-light2" width="1446" height="910" alt="" aria-hidden="true" decoding="async"/><span class="lb-dim lb-dim-a" aria-hidden="true"></span><span class="lb-dim lb-dim-b" aria-hidden="true"></span><span class="lb-ring" aria-hidden="true" style="left:39.07330567081605%;top:20.0%;width:24.20470262793914%;height:38.24175824175824%"></span><svg class="lb-glasses" viewBox="0 0 80 26" aria-hidden="true" style="left:49.93084370677732%;top:24.285714285714285%;width:3.7344398340248963%"><path d="M2 6h76"></path><rect x="6" y="5" width="30" height="17" rx="5"></rect><rect x="44" y="5" width="30" height="17" rx="5"></rect><circle cx="70" cy="7.5" r="1.6" class="lb-cam"></circle></svg><span class="lb-chip" data-b="A" aria-hidden="true" style="left:21.23098201936376%;top:50.76923076923077%;--v:0.6666666666666666"><i class="lb-dot"></i>第 6/9 步<i class="lb-bar"></i></span><span class="lb-chip" data-b="B" aria-hidden="true" style="left:53.665283540802214%;top:50.76923076923077%;--v:0.1111111111111111"><i class="lb-dot"></i>第 1/9 步<i class="lb-bar"></i></span><span class="lb-chip" data-b="C" aria-hidden="true" style="left:84.37067773167358%;top:50.76923076923077%;--v:0.1111111111111111"><i class="lb-dot"></i>第 1/9 步<i class="lb-bar"></i></span><span class="lb-chip" data-b="D" aria-hidden="true" style="left:19.502074688796682%;top:90.54945054945055%;--v:0.5555555555555556"><i class="lb-dot"></i>第 5/9 步<i class="lb-bar"></i></span><span class="lb-chip" data-b="E" aria-hidden="true" style="left:51.65975103734441%;top:90.54945054945055%;--v:0.3333333333333333"><i class="lb-dot"></i>第 3/9 步<i class="lb-bar"></i></span><span class="lb-chip" data-b="F" aria-hidden="true" style="left:83.81742738589212%;top:90.54945054945055%;--v:0.7777777777777778"><i class="lb-dot"></i>第 7/9 步<i class="lb-bar"></i></span><span class="lb-tag lb-warn" data-t="warn" style="left:51.31396957123098%;top:14.505494505494507%">B 台出错了，老师没看到</span><span class="lb-tag lb-warn" data-t="detail" style="left:65.6984785615491%;top:61.75824175824176%">移液量设错，试剂也拿错了</span><span class="lb-tag lb-ok" data-t="dev" style="left:51.31396957123098%;top:14.505494505494507%">回到课前，先用平板准备</span><span class="lb-tag lb-ok" data-t="after" style="left:69.84785615491009%;top:5.714285714285714%">B 台已纠正；C 台的新提醒，老师也第一时间看到</span></div></div><div class="xj-tablet"><div class="xj-screen"><img alt="" class="xj-shot" data-shot="0" decoding="async" height="1161" loading="eager" src="bp/app-scene.jpg?v=20261126010235" style="color:transparent" width="1600"/><img alt="" class="xj-shot" data-shot="1" decoding="async" height="1161" loading="lazy" src="bp/app-question.jpg?v=20261126010235" style="color:transparent" width="1600"/><img alt="" class="xj-shot" data-shot="2" decoding="async" height="1161" loading="lazy" src="bp/app-pipette.jpg?v=20261126010235" style="color:transparent" width="1600"/><img alt="" class="xj-shot" data-shot="3" decoding="async" height="1161" loading="lazy" src="bp/app-segment.jpg?v=20261126010235" style="color:transparent" width="1600"/><img alt="" class="xj-shot" data-shot="4" decoding="async" height="1161" loading="lazy" src="bp/app-design.jpg?v=20261126010235" style="color:transparent" width="1600"/><img alt="" class="xj-shot" data-shot="5" decoding="async" height="1161" loading="lazy" src="bp/app-protocol.jpg?v=20261126010235" style="color:transparent" width="1600"/><img alt="" class="xj-inst" decoding="async" height="1741" loading="eager" src="bp/instrument-hd.jpg?v=20261127-fix" style="color:transparent" width="2400"/><span class="xj-hl"></span></div></div><div class="xj-zoom"><img alt="" class="xj-z" data-z="1-0" decoding="async" height="896" loading="lazy" src="bp/z-scene.jpg?v=20261126010235" style="color:transparent" width="1600"/><img alt="" class="xj-z" data-z="1-1" decoding="async" height="723" loading="lazy" src="bp/z-question.jpg?v=20261126010235" style="color:transparent" width="1600"/><img alt="" class="xj-z" data-z="1-2" decoding="async" height="647" loading="lazy" src="bp/z-pipette.jpg?v=20261126010235" style="color:transparent" width="1600"/><img alt="" class="xj-z" data-z="1-3" decoding="async" height="516" loading="lazy" src="bp/z-segment.jpg?v=20261126010235" style="color:transparent" width="1600"/><img alt="" class="xj-z" data-z="1-4" decoding="async" height="430" loading="lazy" src="bp/z-design.jpg?v=20261126010235" style="color:transparent" width="1600"/><img alt="" class="xj-z" data-z="1-5" decoding="async" height="416" loading="lazy" src="bp/z-protocol.jpg?v=20261126010235" style="color:transparent" width="1600"/><img alt="" class="xj-z" data-z="2-0" decoding="async" height="283" loading="lazy" src="bp/z-inst0.jpg?v=20261126010235" style="color:transparent" width="1400"/><img alt="" class="xj-z" data-z="2-1" decoding="async" height="283" loading="lazy" src="bp/z-inst1.jpg?v=20261126010235" style="color:transparent" width="1400"/><img alt="" class="xj-z" data-z="2-2" decoding="async" height="283" loading="lazy" src="bp/z-inst2.jpg?v=20261126010235" style="color:transparent" width="1400"/><img alt="" class="xj-z" data-z="2-3" decoding="async" height="283" loading="lazy" src="bp/z-inst3.jpg?v=20261126010235" style="color:transparent" width="1400"/><img alt="" class="xj-z" data-z="2-4" decoding="async" height="283" loading="lazy" src="bp/z-inst4.jpg?v=20261126010235" style="color:transparent" width="1400"/><img alt="" class="xj-z" data-z="2-5" decoding="async" height="566" loading="lazy" src="bp/z-inst5.jpg?v=20261126010235" style="color:transparent" width="1400"/></div><div class="xj-glasses"><div class="g3d g3d-mini" data-glasses3d="mini"></div></div><div class="xj-bench"><img alt="" decoding="async" height="675" loading="eager" src="bp/bench-pov.jpg?v=20261126010235" style="color:transparent" width="1200"/><span class="xj-ret"></span><div class="xj-hud xj-hud-task"><b>第 1/9 步</b>加水 · 20 µL</div><div class="xj-hud xj-hud-read"><span>当前读数</span><strong>201.6 µL</strong><em>超出标称量程</em></div><div class="xj-hud xj-hud-say"><i></i>请朝减小方向调整旋钮，目标 20 微升。</div></div><div class="xj-monitor"><div class="xj-mscreen"><img alt="" decoding="async" height="944" loading="eager" src="bp/teacher-workspace.png?v=20261128-c" style="color:transparent" width="1458"/><span class="xj-fcard"></span><span class="xj-fpulse"></span><span class="xj-tgt" data-tgt="0" style="left:28.7%;top:74.5%">01</span><span class="xj-tgt" data-tgt="1" style="left:57.7%;top:69.5%">02</span><span class="xj-tgt" data-tgt="2" style="left:63.3%;top:20.3%">03</span></div></div></div></div><p class="x-foot xj-foot">实验室为示意图；画面来自学生端、仪器训练与教师端原型及演示录屏；眼镜为示意渲染，界面为中文版。</p></section><section class="x-band x-ev ev2" id="zh-project--evidence"><div class="x-wrap"><header class="x-head"><p class="x-kicker">识别效果</p><h2>看懂实验过程，而不只是认出器材。</h2><p>提示要有用，眼镜得知道学生正在做哪一步、做得对不对。</p></header>
 <div class="ev4" data-inview="true">
 <div class="ev4-stat">
 <p class="ev4-k">关键动作识别准确率</p>
